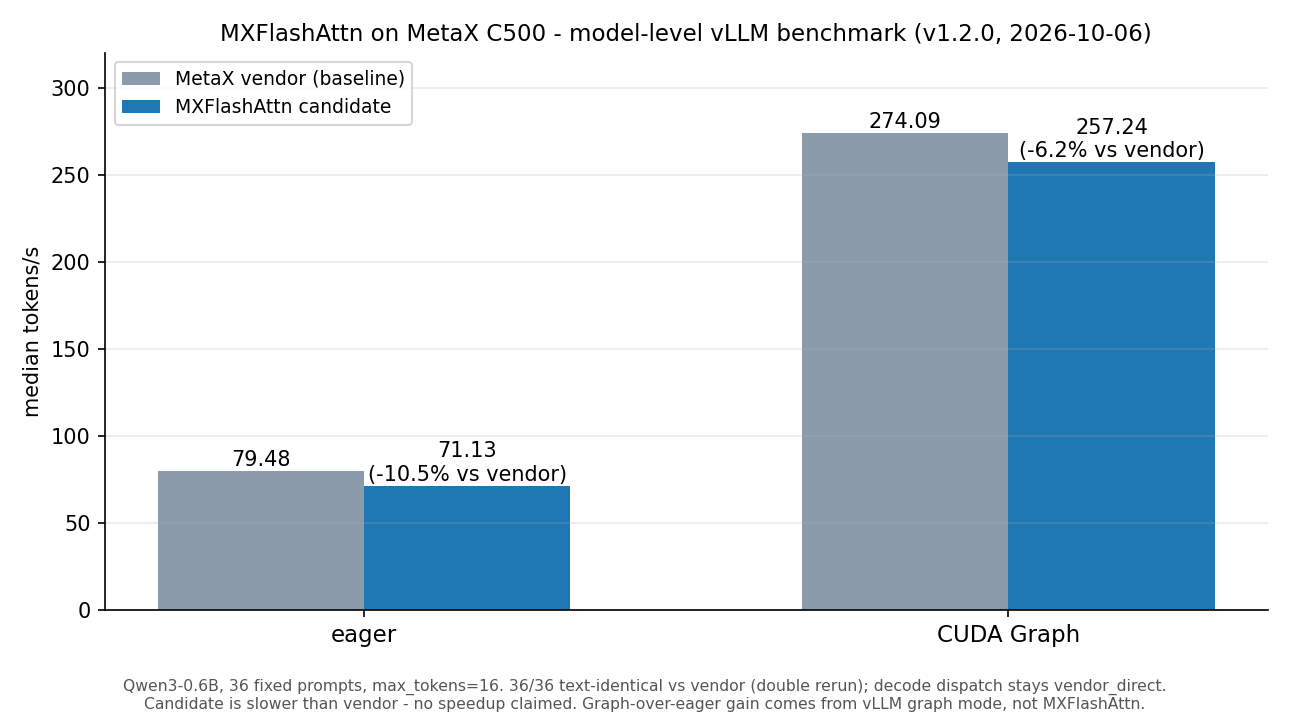
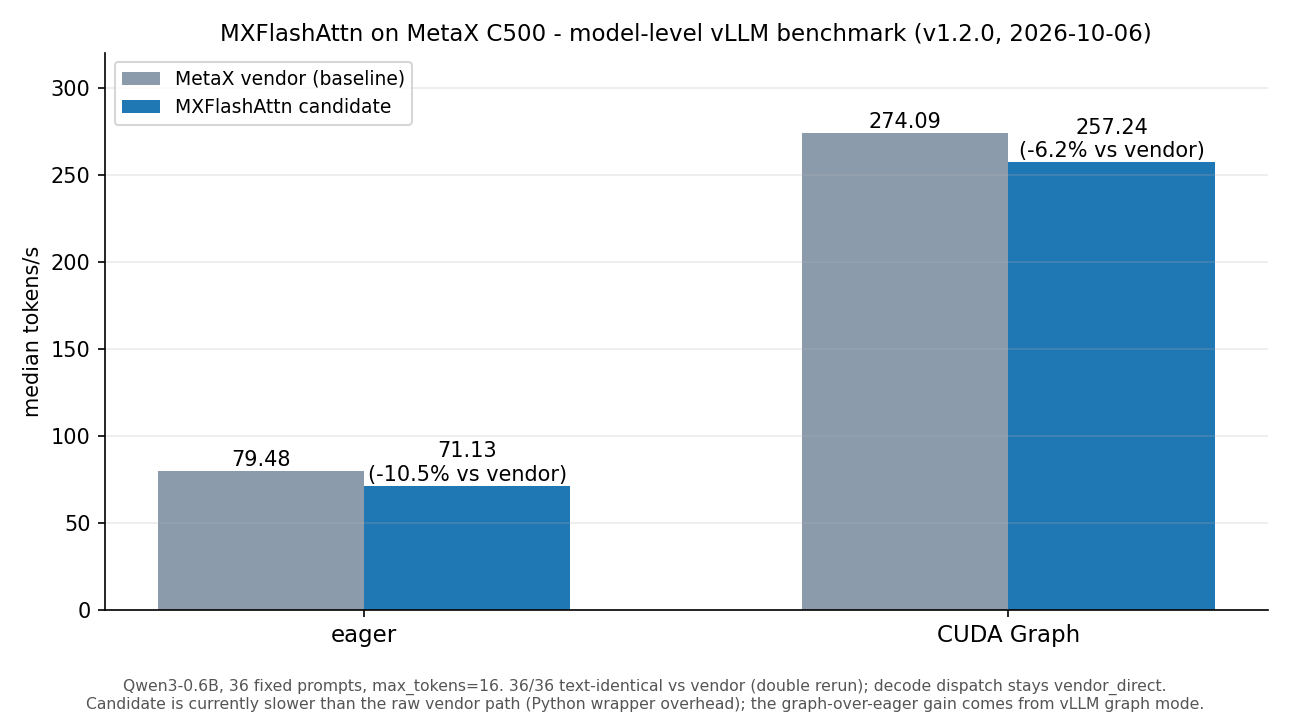
docs: neutral wording for performance notes

Changed region(s): [[0.062, 0.9472, 0.9302, 1.0]]

diff --git a/README.en.md b/README.en.md
@@ -20,14 +20,14 @@ MXFlashAttn provides FlashAttention-compatible forward APIs and an inference ada
 | --- | --- |
 | v0.9 fair operator matrix | 36/36 C500 cases completed; same-input comparison across reference, Torch SDPA, MetaX vendor, and MXFlashAttn API |
 | MXFlashAttn API vs reference | 60.52% median latency reduction (v0.9 C500 matrix) |
-| MXFlashAttn API vs MetaX vendor (raw) | 25.45% median latency increase (wrapper overhead, disclosed as-is; no vendor-speedup claim; the v0.9 matrix measured +32.74%) |
+| MXFlashAttn API vs MetaX vendor (raw) | 25.45% median latency increase (Python wrapper overhead; the v0.9 matrix measured +32.74%) |
 | Model-level eager (Qwen3-0.6B, 36 paired prompts) | vendor median 79.48 tokens/s, candidate median 71.13 tokens/s (10.5% slower), 36/36 text-identical |
 | Model-level CUDA Graph (same suite, double rerun) | vendor median 274.09 tokens/s, candidate median 257.24–258.19 tokens/s (about 6% slower), 36/36 text-identical |
 | Decode dispatch evidence | `vendor_direct` throughout (840/840 samples in `official-split-rc.json`); prefill delegated to vendor |
 | Maximum absolute error | 0.00390625 (v0.9 MXFlashAttn API vs reference) |
 | Automated tests | 43 passed |
 
-Operator-level numbers come from the same-input fair matrix, not end-to-end generation. No operator-level case is faster than the raw MetaX vendor call — the remaining gap is wrapper overhead. Model-level vendor and candidate results are kept in separate columns and never mixed into operator medians. The CUDA-graph-over-eager gain comes from vLLM graph mode itself (both sides scale up together) and is not attributed to MXFlashAttn. Raw data: `artifacts/official-split-fixed-36.json`, `artifacts/official-split-clean-36.json` (candidate), `artifacts/base-graph-36.json` (vendor graph baseline), `artifacts/fair-matrix-c500.json` (operator level), `artifacts/official-split-rc.json` (dispatch sampling).
+Operator-level numbers come from the same-input fair matrix, not end-to-end generation. The MXFlashAttn API is currently slower than the raw MetaX vendor call on every operator-level case; the gap is Python wrapper overhead. Model-level vendor and candidate results are kept in separate columns and never mixed into operator medians. The CUDA-graph-over-eager gain comes from vLLM graph mode itself (both sides scale up together) and is not attributed to MXFlashAttn. Raw data: `artifacts/official-split-fixed-36.json`, `artifacts/official-split-clean-36.json` (candidate), `artifacts/base-graph-36.json` (vendor graph baseline), `artifacts/fair-matrix-c500.json` (operator level), `artifacts/official-split-rc.json` (dispatch sampling).
 
 ## Capability Matrix
 

diff --git a/README.md b/README.md
@@ -22,7 +22,7 @@ MXFlashAttn 是面向 **MXMACA / MetaX C500** 的 FlashAttention 兼容前向算
 | --- | --- |
 | 算子级公平矩阵 | C500 36/36 组完成；reference、Torch SDPA、MetaX vendor、MXFlashAttn API 同输入对比 |
 | MXFlashAttn API vs PyTorch reference | 中位延迟下降 60.52% |
-| MXFlashAttn API vs MetaX vendor 裸调 | 中位延迟**上升 25.45%**（wrapper 开销，如实披露，不宣称对 vendor 加速；v0.9 矩阵实测为 +32.74%） |
+| MXFlashAttn API vs MetaX vendor 裸调 | 中位延迟**上升 25.45%**（差距来自 Python wrapper 开销；v0.9 矩阵实测为 +32.74%） |
 | 模型级 eager（Qwen3-0.6B，36 prompt 配对） | vendor 中位 79.48 tokens/s，candidate 中位 71.13 tokens/s（慢 10.5%），**36/36 文本一致** |
 | 模型级 CUDA Graph（同上，双复跑） | vendor 中位 274.09 tokens/s，candidate 中位 257.24–258.19 tokens/s（慢约 6%），**36/36 文本一致** |
 | decode dispatch 证据 | 全程 `vendor_direct`（`official-split-rc.json` 840/840 采样），prefill 委托 vendor |
@@ -31,7 +31,7 @@ MXFlashAttn 是面向 **MXMACA / MetaX C500** 的 FlashAttention 兼容前向算
 
 三条必须同时说清的口径：
 
-1. **算子级基线是同输入同设备的公平矩阵**（reference / torch SDPA / MetaX vendor / MXFlashAttn API 四路对比），不是拿自写 reference 单独对比得出的加速比。MXFlashAttn API 相对 vendor 裸调的差距是 wrapper 开销，**没有任何一组算子级用例快于 vendor 裸调**。
+1. **算子级基线是同输入同设备的公平矩阵**（reference / torch SDPA / MetaX vendor / MXFlashAttn API 四路对比），不是拿自写 reference 单独对比得出的加速比。MXFlashAttn API 相对 vendor 裸调的差距来自 Python wrapper 开销，目前所有算子级用例均慢于裸调。
 2. **仓库早期那组 384 用例 benchmark（decode 中位下降 51.64%、185/192 达标）基线是本项目 PyTorch reference**，已被公平矩阵取代，仅作为历史数据保留在 `docs/results/`，不作为当前性能主张。
 3. **模型级 vendor 与 candidate 分栏列示，不混入算子级 median**；v1.0 的 candidate 曾慢于 vendor 约 39.7%，v1.2.0 修复静默 import 回退后收敛到 eager 慢 10.5% / graph 慢约 6%，且 36 条 prompt 文本全部与 vendor 一致。CUDA Graph 相对 eager 的提升来自 vLLM 图模式本身，两边同涨，不归因于 MXFlashAttn。
 

diff --git a/docs/support-matrix.md b/docs/support-matrix.md
@@ -27,8 +27,9 @@ bring-up/correctness path, not a fused kernel authored by this project.
 Across the 36 C500 operator cases, MXFlashAttn's median latency is 60.52%
 lower than the project's PyTorch reference and 25.45% higher than the MetaX
 vendor raw-call median (the v0.9 matrix recorded 32.74%). The first number is
-a reference comparison; the second means that no vendor-speedup claim is made —
-no operator-level case beats the raw vendor call. Model-level vLLM tokens/s
+a reference comparison; the second reflects Python wrapper overhead — the
+MXFlashAttn API is currently slower than the raw vendor call on every
+operator-level case. Model-level vLLM tokens/s
 (eager 71.13 vs 79.48, graph 257.24–258.19 vs 274.09, both 36/36 text-identical)
 are reported in a separate section because they do not share the operator
 matrix's inputs.
